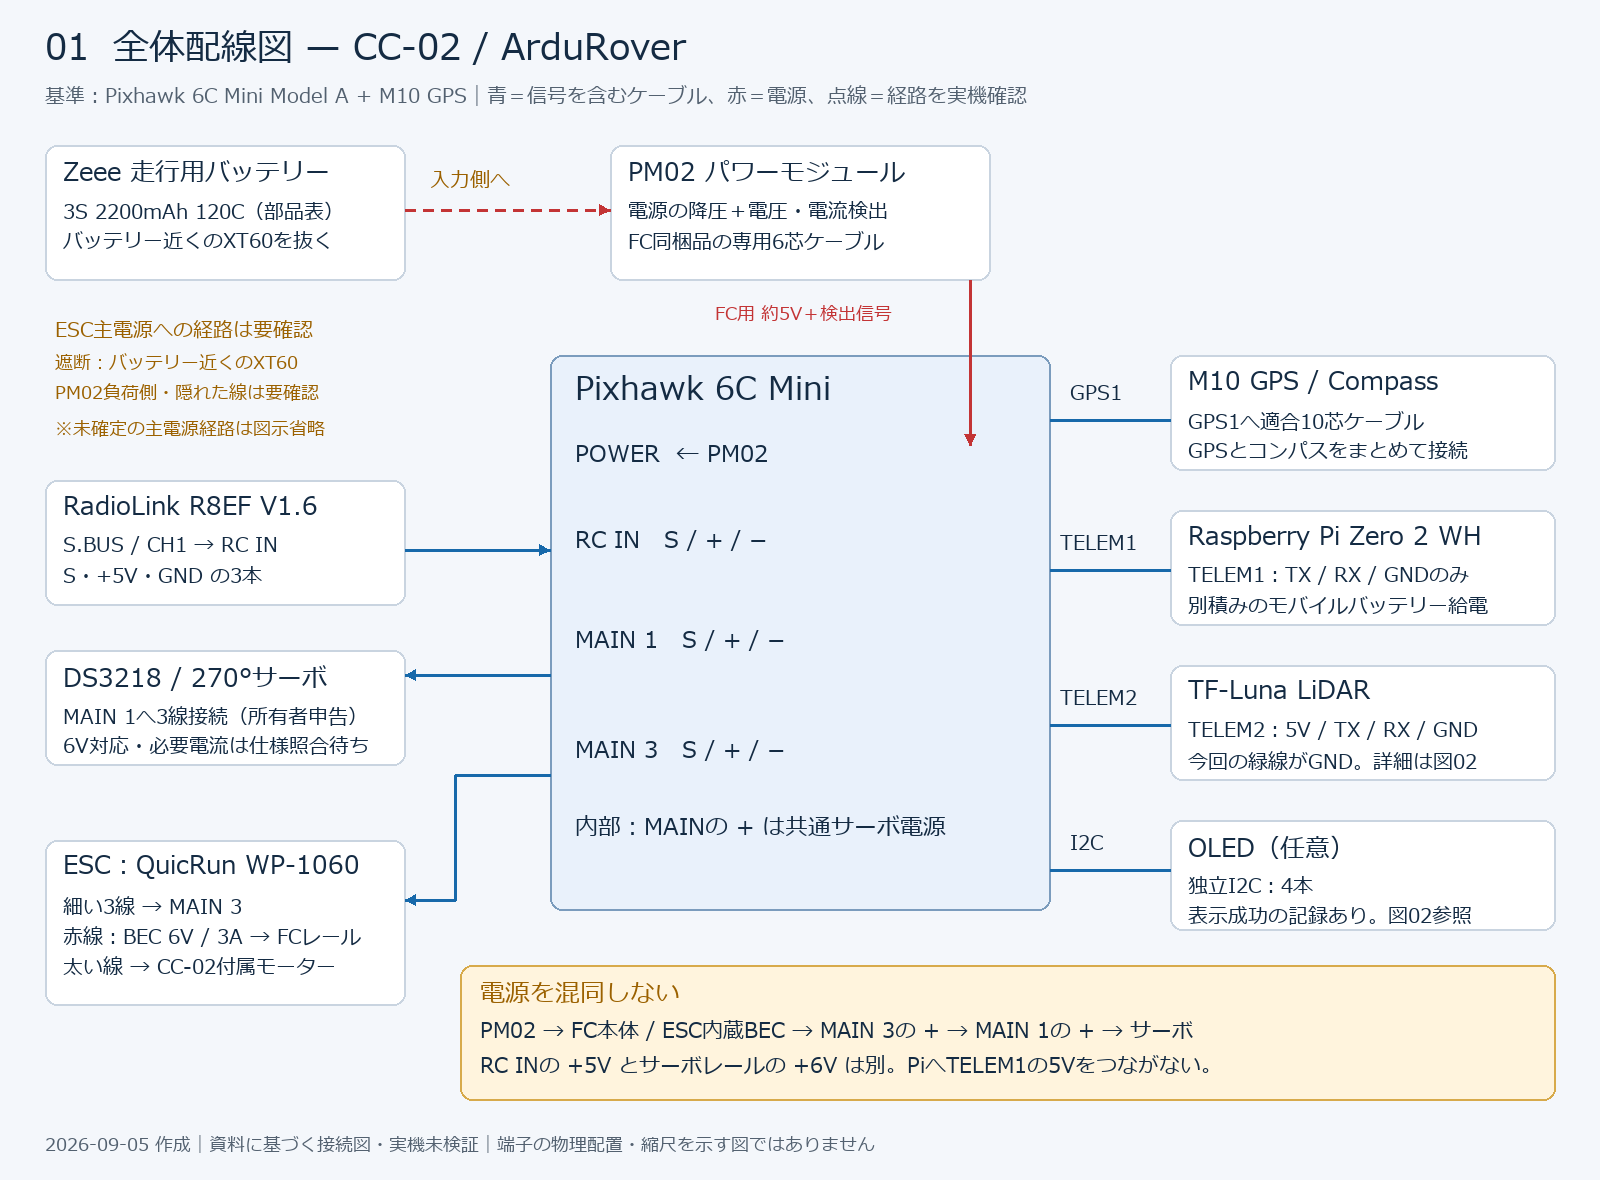
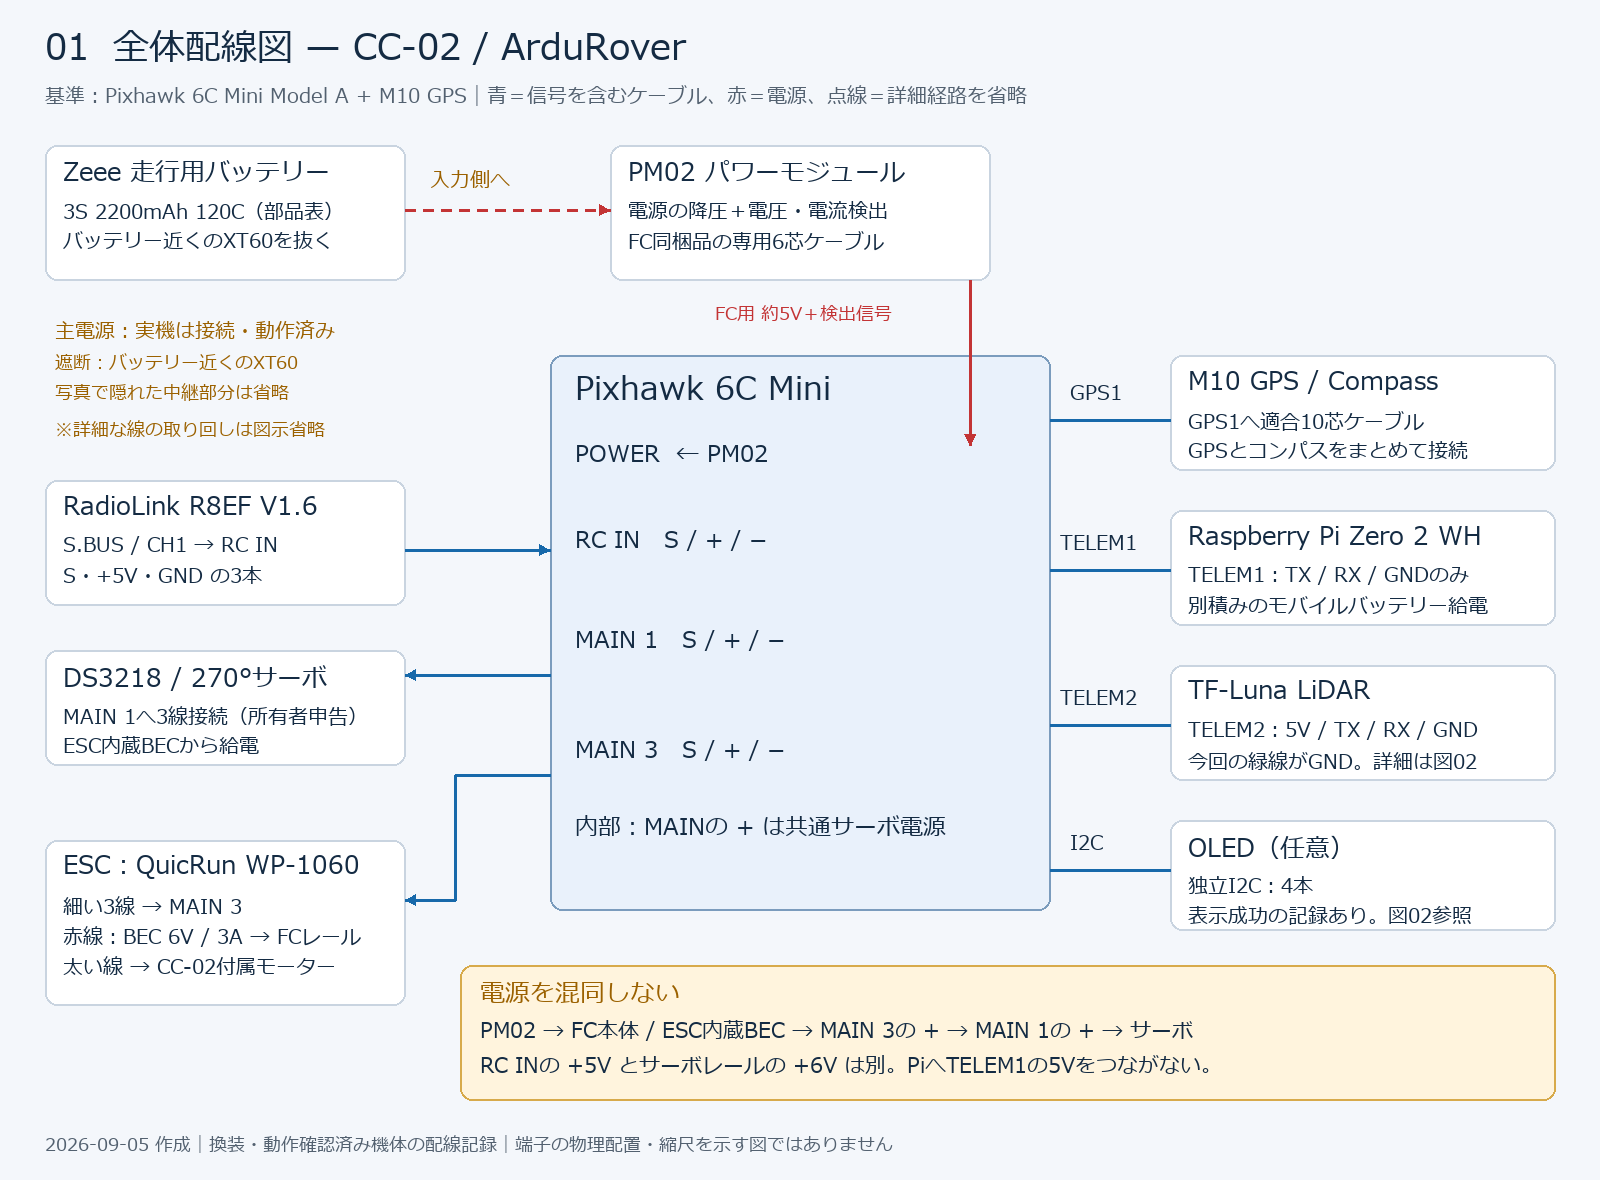
Update wiring documentation and diagrams for CC-02 with Pixhawk 6C Mini integration
- Revised introduction to clarify successful integration and testing of CC-02 with Pixhawk 6C Mini.
- Updated wiring tables to reflect accurate connections and specifications, including power systems and device connections.
- Enhanced section on device specifications to provide clearer information on components and their verification status.
- Modified confirmation procedures for wiring changes and reassembly to improve clarity and usability.
- Updated diagrams (both PNG and SVG formats) to reflect the latest wiring configurations and ensure consistency with the written documentation.
- Improved annotations in diagrams to better communicate the status of connections and components.

diff --git a/projects/01_FC換装/diagrams/build_wiring_diagrams.py b/projects/01_FC換装/diagrams/build_wiring_diagrams.py
@@ -42,11 +42,11 @@ class Sheet:
             self.d.polygon(pts,fill=color)
             self.svg.append(f'<polygon points="{" ".join(f"{x},{y}" for x,y in pts)}" fill="{color}"/>')
     def save(self,name):
-        self.text(45,1135,'2026-09-05 作成｜資料に基づく接続図・実機未検証｜端子の物理配置・縮尺を示す図ではありません',18,GRAY)
+        self.text(45,1135,'2026-09-05 作成｜換装・動作確認済み機体の配線記録｜端子の物理配置・縮尺を示す図ではありません',18,GRAY)
         (OUT/f'{name}.svg').write_text('\n'.join(self.svg+['</svg>']),encoding='utf-8')
         self.im.save(OUT/f'{name}.png')
 
-s=Sheet('01  全体配線図 — CC-02 / ArduRover','基準：Pixhawk 6C Mini Model A + M10 GPS｜青＝信号を含むケーブル、赤＝電源、点線＝経路を実機確認')
+s=Sheet('01  全体配線図 — CC-02 / ArduRover','基準：Pixhawk 6C Mini Model A + M10 GPS｜青＝信号を含むケーブル、赤＝電源、点線＝詳細経路を省略')
 s.box(45,145,360,135,'Zeee 走行用バッテリー', ['3S 2200mAh 120C（部品表）','バッテリー近くのXT60を抜く'])
 s.box(610,145,380,135,'PM02 パワーモジュール',['電源の降圧＋電圧・電流検出','FC同梱品の専用6芯ケーブル'])
 s.line(405,210,610,210,RED,True,True); s.text(430,170,'入力側へ',20,AMBER)
@@ -56,14 +56,14 @@ for y,t in [(445,'POWER  ← PM02'),(530,'RC IN   S / + / −'),(630,'MAIN 1   S
 s.line(970,280,970,445,RED,False,True); s.text(715,305,'FC用 約5V＋検出信号',18,RED)
 s.box(45,480,360,125,'RadioLink R8EF V1.6',['S.BUS / CH1 → RC IN','S・+5V・GND の3本'])
 s.line(405,550,550,550,BLUE,False,True)
-s.box(45,650,360,115,'DS3218 / 270°サーボ',['MAIN 1へ3線接続（所有者申告）','6V対応・必要電流は仕様照合待ち'])
+s.box(45,650,360,115,'DS3218 / 270°サーボ',['MAIN 1へ3線接続（所有者申告）','ESC内蔵BECから給電'])
 s.line(550,675,405,675,BLUE,False,True)
 s.box(45,840,360,165,'ESC：QuicRun WP-1060',['細い3線 → MAIN 3','赤線：BEC 6V / 3A → FCレール','太い線 → CC-02付属モーター'])
 s.line(550,775,455,775); s.line(455,775,455,900); s.line(455,900,405,900,BLUE,False,True)
-s.text(55,320,'ESC主電源への経路は要確認',20,AMBER)
+s.text(55,320,'主電源：実機は接続・動作済み',20,AMBER)
 s.text(55,353,'遮断：バッテリー近くのXT60',18,AMBER)
-s.text(55,383,'PM02負荷側・隠れた線は要確認',18,AMBER)
-s.text(55,420,'※未確定の主電源経路は図示省略',18,AMBER)
+s.text(55,383,'写真で隠れた中継部分は省略',18,AMBER)
+s.text(55,420,'※詳細な線の取り回しは図示省略',18,AMBER)
 s.box(1170,355,385,115,'M10 GPS / Compass',['GPS1へ適合10芯ケーブル','GPSとコンパスをまとめて接続'])
 s.line(1050,420,1170,420); s.text(1070,385,'GPS1',20)
 s.box(1170,510,385,115,'Raspberry Pi Zero 2 WH',['TELEM1：TX / RX / GNDのみ','別積みのモバイルバッテリー給電'])

diff --git a/projects/01_FC換装/diagrams/README.md b/projects/01_FC換装/diagrams/README.md
@@ -28,24 +28,26 @@
 - TF-Lunaの線色は**この資料の現物ケーブル限定**です。特に緑＝GND、黒＝未使用です。他の購入品へ色だけで適用しないでください。
 - JST-GHは挿し込み面と電線側で左右が反転します。[保存済み公式ポート表](../../../参考資料/Pixhawk6Cmini_Holybro/03_ports-pinout.html)のPin1位置図と現物を照合し、テスターで各端子から線端まで追います。Piも物理Pin1の目印から数え、GPIO番号と物理番号を混同しないでください。
 
-## まだ確定していない主電源部分
+## 電源系統の記録範囲
 
-**全体図だけで主電源ハーネスを製作できる状態ではありません。** 既存資料には、次の情報が揃っていません。未確定の配線を実配線として描かないため、ESC主電源の線は省略しました。
+**実機はPixhawk 6C Miniへの換装と動作確認を完了しています。本資料は稼働中の機体の配線を整理したものです。** 以下は工事の残作業ではなく、図面に記載した情報と省略した詳細の範囲です。
 
-| 確認箇所 | 組立て前に決める・確かめる内容 |
+| 項目 | 記録内容 / 図面の範囲 |
 | --- | --- |
-| バッテリー → PM02 → ESC | PM02入力・負荷側の実端子、変換コネクタの極性、分岐位置。ESC電流を測る場合、ESCの電流がPM02の計測経路を通るよう製品仕様と照合する。 |
-| 物理遮断 | 所有者確認済み：バッテリー近くの太い電源線のXT60を抜く。FC電源も同時に落ちるかは給電経路の確認待ち。Piの別電源は別途管理する。 |
-| ステアリングサーボ | 所有者確認済み：DS3218、20kg表記、270°版。6V対応・停止電流は製品仕様との照合待ち。WP-1060のBEC公称6V / 3Aで負荷を賄えるか確認する。270°全域を操舵に使わず、リンケージに合わせる。 |
-| Pi別電源 | 所有者確認済み：モバイルバッテリーを別積みする。旧部品表にC25 2500mAh・5Vの記載あり。ただし最新部品表には製品名がなく、現物型番・出力電流定格・給電ケーブルは未確認。TELEM1の5VをPiへ追加接続しない。 |
-| 駆動モーター | 所有者確認済み：CC-02キット付属品。詳細型番情報なしとして記録。3S使用条件・ESC適合性の仕様は未照合。3S対応ESCというだけでモーターも3S対応とは判断しない。 |
+| 主電源 | バッテリー、PM02、ESCで構成。写真で見えない中継部分やPM02の入出力端子までの線の取り回しは、全体図では省略しています。 |
+| 電源遮断 | バッテリー近くの太い電源線のXT60を抜く運用。Piは別電源です。 |
+| サーボ | DS3218 20kg表記・270°版をMAIN 1に接続。ESC内蔵BECは公称6V / 3A。製品仕様の詳細や負荷電流の測定値は本資料に収録していません。 |
+| Pi電源 | 小型モバイルバッテリーを別積み。旧部品表にはC25 2500mAhの記録がありますが、本資料では現用品の型番を特定せず記載します。 |
+| モーター | CC-02キット付属品を使用。詳細型番は記録していません。 |
 
 既存記録ではESC内蔵BECの赤線がMAIN 3の+に入り、共通レールからMAIN 1のサーボへ給電します。RC INの+5Vとは別です。別BECを追加する場合、既存BECのプラスと直結して二重給電しないでください。
 
-## 初回組立て・確認の順序
+## 配線変更・再組立て時の確認手順
+
+以下は今後の配線変更・再組立て時の参考手順です。現在の機体に未完了作業があることを示すものではありません。
 
 1. バッテリー・USB・Pi電源を全て外します。端子名ラベルをケーブル両端に付け、端子の向き・極性・GND導通・不要線の個別絶縁を確認します。
-2. 電源仕様と主電源経路を上表で確定します。負荷を接続する前に、適切に絶縁した測定方法でPM02出力・FC周辺機器5V・サーボレール6Vの極性と電圧を確認します。通電中の導通測定はしません。
+2. 変更する機器の電源仕様と接続経路を確認します。負荷を接続する前に、適切に絶縁した測定方法でPM02出力・FC周辺機器5V・サーボレール6Vの極性と電圧を確認します。通電中の導通測定はしません。
 3. 毎回電源を切ってから、PM02、受信機、M10、Pi、TF-Luna、必要ならOLEDを順に接続します。接続のたびに認識を確認し、異常が出た機器を切り分けます。
 4. モーターを駆動できない状態でRC入力を確認します。車輪を浮かせて保持し、サーボの中立・左右・機械的限界を確認します。
 5. ESCを接続し、車輪を浮かせたままニュートラル、微小な前後進、DISARM時停止、送信機断時のフェイルセーフ、物理遮断を確認します。具体的な設定は[導入手順](../05_ArduRoverインストール設定手順.md)と[パラメータ記録](../06_ArduRoverパラメータ.md)に従います。
@@ -76,4 +78,21 @@
 - [Benewake TF-Luna User Manual](https://en.benewake.com/uploadfiles/2025/04/20250430174515390.pdf)：2026-09-05確認。No.1〜6、UART設定端子と115200bpsを照合。
 - [Hobbywing WP-1060公式仕様](https://www.hobbywing.com/en/products/quicrun-wp-1060-brushed55)：2026-09-05確認。BEC 6V / 3Aを照合。
 
-PNGは閲覧用、SVGは拡大・編集用です。生成元は`build_wiring_diagrams.py`（Python + Pillow、Windows Meiryoフォント）です。図作成時は画像表示・文字配置、端子対応、参照リンクを確認しました。実機の通電試験は実施していません。
+PNGは閲覧用、SVGは拡大用です。図作成時は画像表示・文字配置、端子対応、参照リンクを確認しました。図面作成に伴う実機の通電試験は実施していません。
+
+## 図面の保守・再生成
+
+[build_wiring_diagrams.py](build_wiring_diagrams.py)を図面の生成元として、生成したPNG / SVGと一緒にGitで管理します。機器名、接続、注記、配置をコード側で変更すると、2枚の図を同じ内容で再生成できます。配線資料を読むだけなら実行は不要です。
+
+必要な環境はPython、Pillow、WindowsのMeiryoフォントです。現在のコードはWindows標準フォントの場所を使用します。別OSで動かす場合は、コードの`FONT`とSVGのフォント指定を、利用可能な日本語フォントに合わせてください。
+
+リポジトリのルートから実行します。
+
+```powershell
+python -m pip install Pillow
+python projects/01_FC換装/diagrams/build_wiring_diagrams.py
+```
+
+実行すると、このフォルダの`ardurover-wiring-overview`と`ardurover-wiring-cables`のPNG / SVGを上書きします。SVGだけを直接修正すると再生成時に失われるため、継続する変更は生成元へ反映します。
+
+更新時は、生成元を修正して再生成し、PNGの文字の重なり・矢印・端子対応を確認します。生成元、PNG / SVG、関連する説明を同じ変更として保存してください。仮想環境や`__pycache__`などの実行用ファイルは管理対象に含めません。

diff --git a/README.md b/README.md
@@ -6,7 +6,7 @@ WebGCSアプリ本体のソースコードは別リポジトリの [rover-gcs](h
 
 ## 現在の状態
 
-最終スナップショットは **2026-07-28** です。詳細と次回作業は [現在状況](docs/01_現在状況.md) を参照してください。
+全体状況の更新日は **2026-09-05** です。**FC換装・基本走行の動作確認は完了しており、現在は配線図や説明などの公開資料を整備しています。** 追加機能は個別に検証しています。実機確認日と各プロジェクトの状況は [現在状況](docs/01_現在状況.md) を参照してください。
 
 ### 通常運用の基準
 
@@ -71,7 +71,7 @@ TELEM2 GPS検証はPixhawk 2.4.8を対象とした別検証です。現在のCC-
 | 04 | [WebGCS遠隔操作](projects/04_WebGCS遠隔操作/README.md) | RC Overrideと携帯回線経由の遠隔操作手順 |
 | 05 | [TELEM2 GPS検証](projects/05_TELEM2_GPS検証/README.md) | Pixhawk 2.4.8 + NEO-M8NのGPS認識、UBXパススルー |
 | 06 | [HC-SR04左右距離計](projects/06_HC-SR04左右距離計/README.md) | 左右HC-SR04のGPIO接続、電源方式、ArduPilot設定の検討 |
-| 07 | [Pi Zero 2 Wカメラ](projects/07_PiZero2Wカメラ/README.md) | KEYESTUDIO OV5647のCSI接続、カメラ環境修復、静止画・1080p動画撮影確認 |
+| 07 | [Pi Zero 2 Wカメラ](projects/07_PiZero2Wカメラ/README.md) | KEYESTUDIO OV5647のCSI接続、カメラ環境修復、静止画・1080p動画撮影、RTSP映像の手動受信を確認。パンチルトは計画段階 |
 
 配置方針は [サブプロジェクト一覧](projects/README.md) にまとめています。
 
